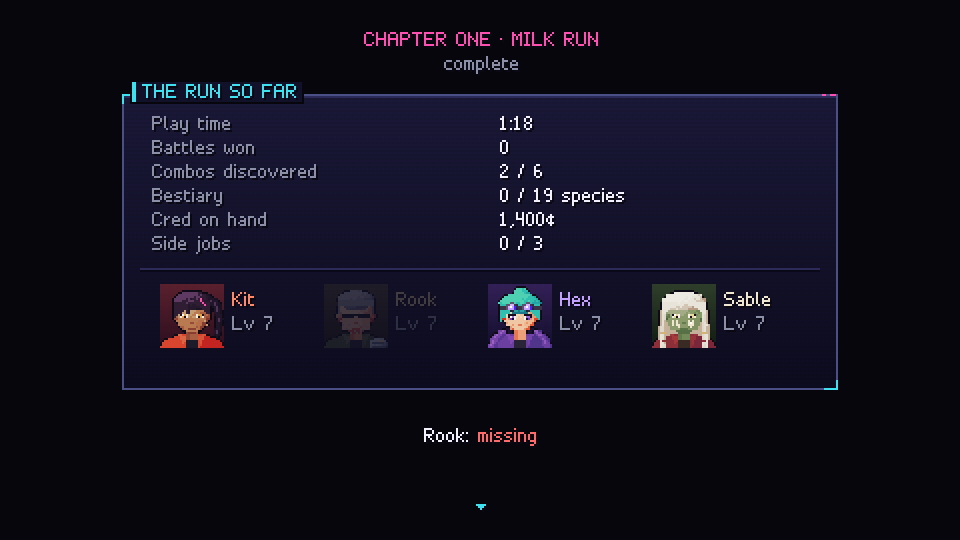
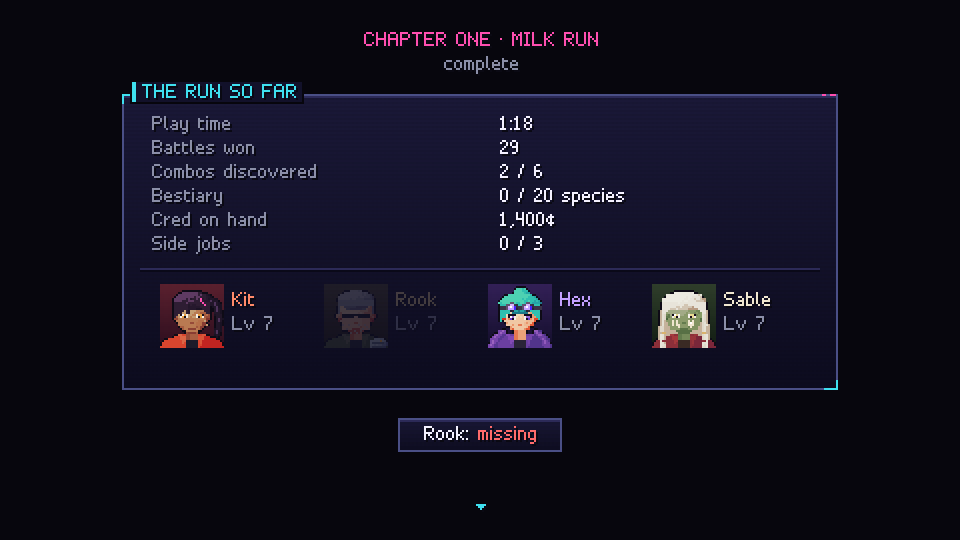
Round 3 (part 4): feel and wayfinding: panel typing gate, objective HUD, Annex signs, field light
Feel / UI
- Comic panels type speech at the player's Text Speed, and a press first finishes the line
  being typed (same contract as dialogue); dialogue boxes no longer eat a press made during
  their open animation. The battle top line wraps long text (memoized, no per-frame work).

Level design
- The current objective is always on screen, top-left (dimmer while walking, hidden in
  cutscenes and interiors), flashing when it changes.
- Annex 7 wayfinding signs (labs, armory, cryo wing, containment); lore terminals are all
  cyan, lattice relays red.

Field art
- Sinkline ambient raised and emergency strip lights along the corridor and catwalk; flood
  debris (wreck, barrels, crates) in the junction.
- Barrens landmarks: scav camp, wrecks, tyres, a sign to the arcology.
- The plaza's string lights are tied off to lantern poles instead of floating.

Changed region(s): [[0.4062, 0.7704, 0.5938, 0.8593], [0.5, 0.2667, 0.5625, 0.2963], [0.5625, 0.3556, 0.5938, 0.3852]]

diff --git a/src/scenes/panels.ts b/src/scenes/panels.ts
@@ -3,6 +3,7 @@ import { buildChar } from '../art/chars';
 import { getPortrait } from '../art/portraits';
 import { sfx } from '../audio/sfx';
 import { autoClose } from '../game/debug';
+import { charsPerFrame } from '../game/settings';
 import { LOOKS } from '../data/looks';
 import { SPEAKERS } from '../data/speakers';
 import { silhouette, surface, type Ctx } from '../engine/canvas';
@@ -76,6 +77,8 @@ export class PanelScene extends Scene<void> {
   private shown = 0;
   private t = 0;
   private panelT: number[] = [];
+  /** Characters of each panel's speech revealed so far. */
+  private typed: number[] = [];
   private cache = new Map<string, HTMLCanvasElement>();
 
   constructor(id: string) {
@@ -92,6 +95,7 @@ export class PanelScene extends Scene<void> {
     if (!p) return;
     if (this.shown < p.length) {
       this.panelT[this.shown] = 0;
+      this.typed[this.shown] = 0;
       this.shown++;
       sfx(p[this.shown - 1]!.shake ? 'explosion' : 'page');
       if (p[this.shown - 1]!.shake) this.game.shake(20, 3);
@@ -111,10 +115,21 @@ export class PanelScene extends Scene<void> {
       this.close();
       return;
     }
+    // Speech bubbles type out at the player's Text Speed, once the panel has slid in.
+    for (let i = 0; i < this.shown; i++) {
+      const sp = p[i]?.speech;
+      if (sp && (this.panelT[i] ?? 0) > 6) this.typed[i] = Math.min(sp.text.length, (this.typed[i] ?? 0) + charsPerFrame());
+    }
     const lastT = this.panelT[this.shown - 1] ?? 999;
     if (inp.pressed('cancel')) {
       // Skip the whole sequence.
       this.close();
+      return;
+    }
+    // Same contract as dialogue boxes: a press first finishes the line being typed.
+    const cur = p[this.shown - 1]?.speech;
+    if (inp.pressed('confirm') && cur && (this.typed[this.shown - 1] ?? 0) < cur.text.length) {
+      this.typed[this.shown - 1] = cur.text.length;
       return;
     }
     if (inp.pressed('confirm') && lastT > 12) {
@@ -123,6 +138,7 @@ export class PanelScene extends Scene<void> {
         this.page++;
         this.shown = 0;
         this.panelT = [];
+        this.typed = [];
         if (this.page >= this.pages.length) this.close();
         else this.revealNext();
       }
@@ -137,7 +153,7 @@ export class PanelScene extends Scene<void> {
     for (let y = 0; y < H; y += 6) for (let x = (y / 6) % 2 ? 3 : 0; x < W; x += 6) ctx.fillRect(x, y, 1, 1);
     const p = this.pages[this.page];
     if (!p) return;
-    for (let i = 0; i < this.shown; i++) this.drawPanel(ctx, fitPanel(p[i]!), this.panelT[i] ?? 0);
+    for (let i = 0; i < this.shown; i++) this.drawPanel(ctx, fitPanel(p[i]!), this.panelT[i] ?? 0, this.typed[i] ?? 0);
     // Footer strip below the panels: skip hint left, page-advance marker right.
     const lastT = this.panelT[this.shown - 1] ?? 0;
     if (lastT > 20 && Math.floor(this.t / 20) % 2 === 0) drawText(ctx, '▼', W - 14, FOOT_Y, { color: '#ffffff' });
@@ -145,7 +161,7 @@ export class PanelScene extends Scene<void> {
     drawText(ctx, 'skip', 9 + measure('X') + 4, FOOT_Y, { color: '#8a87a8' });
   }
 
-  private drawPanel(ctx: Ctx, pn: Panel, t: number): void {
+  private drawPanel(ctx: Ctx, pn: Panel, t: number, typed: number): void {
     const k = Math.min(1, t / 14);
     const e = 1 - (1 - k) ** 3;
     let ox = 0, oy = 0;
@@ -190,7 +206,7 @@ export class PanelScene extends Scene<void> {
     ctx.globalAlpha = 1;
     if (t < 6) return;
     if (pn.caption) this.caption(ctx, pn, x, y);
-    if (pn.speech) this.speech(ctx, pn, x, y, t);
+    if (pn.speech) this.speech(ctx, pn, x, y, typed);
   }
 
   private caption(ctx: Ctx, pn: Panel, x: number, y: number): void {
@@ -209,7 +225,7 @@ export class PanelScene extends Scene<void> {
     });
   }
 
-  private speech(ctx: Ctx, pn: Panel, x: number, y: number, t: number): void {
+  private speech(ctx: Ctx, pn: Panel, x: number, y: number, typed: number): void {
     const sp = pn.speech!;
     const name = SPEAKERS[sp.who]?.name ?? sp.who;
     const maxW = Math.min(pn.w - (pn.portrait ? 96 : 24), 220);
@@ -219,7 +235,7 @@ export class PanelScene extends Scene<void> {
     const leftSide = pn.portrait?.flip || pn.portrait?.dx !== undefined;
     const bx = leftSide ? x + 8 : x + pn.w - w - 8;
     const by = y + 8;
-    const reveal = Math.min(sp.text.length, Math.floor((t - 6) * 1.6));
+    const reveal = Math.floor(typed);
     ctx.fillStyle = '#000';
     ctx.fillRect(bx - 1, by - 1, w + 2, h + 2);
     ctx.fillStyle = '#ffffff';

diff --git a/src/scenes/battle.ts b/src/scenes/battle.ts
@@ -15,7 +15,7 @@ import { ITEMS } from '../data/items';
 import { LOOKS } from '../data/looks';
 import { MEMBERS } from '../data/party';
 import { silhouette, surface, type Ctx, type Surface } from '../engine/canvas';
-import { drawText, measure } from '../engine/font';
+import { drawText, measure, wrap } from '../engine/font';
 import { Scene, W, H } from '../engine/game';
 import { Rng, rng as globalRng } from '../engine/rng';
 import { equipRegen, grantXp, knownAbilities, type LevelUp } from '../game/party';
@@ -129,6 +129,10 @@ export class BattleScene extends Scene<'win' | 'lose' | 'run'> {
   private waitingConfirm: (() => void) | null = null;
   private playtestT = 0;
   private readonly drawOrder: Combatant[] = [];
+  /** Wrapped top-line text, rebuilt only when the text changes. */
+  private topKey = '';
+  private topLines: { l: string; c: string }[] = [];
+  private topW = 0;
   /** Frames of freeze-frame left (heavy hits). */
   private hitstop = 0;
   private partyArt = new Map<number, Battler>();
@@ -1376,10 +1380,21 @@ export class BattleScene extends Scene<'win' | 'lose' | 'run'> {
 
   /** One or two centred lines in the top slot, where action banners play during a round. */
   private topLine(ctx: Ctx, text: string, color: string = UI.dim, second?: { text: string; color: string }): void {
-    const tw = Math.min(W - 20, Math.max(measure(text), second ? measure(second.text) : 0) + 24);
-    drawWindow(ctx, (W - tw) / 2, 6, tw, second ? 28 : 17, { plain: true, accent: second ? second.color : UI.cyan });
-    drawText(ctx, text, W / 2, 10, { align: 'center', color });
-    if (second) drawText(ctx, second.text, W / 2, 21, { align: 'center', color: second.color });
+    // Text wider than the screen wraps onto a second line instead of running off the window.
+    const key = `${text}|${second?.text ?? ''}|${color}`;
+    if (key !== this.topKey) {
+      const maxW = W - 44;
+      const lines = wrap(text, maxW).map((l) => ({ l, c: color }));
+      const extra = second ? wrap(second.text, maxW).map((l) => ({ l, c: second.color })) : [];
+      this.topKey = key;
+      this.topLines = [...lines, ...extra];
+      this.topW = Math.min(W - 20, Math.max(...this.topLines.map((a) => measure(a.l))) + 24);
+    }
+    const all = this.topLines, tw = this.topW;
+    drawWindow(ctx, (W - tw) / 2, 6, tw, 6 + all.length * 11, { plain: true, accent: second ? second.color : UI.cyan });
+    all.forEach((a, i) => {
+      drawText(ctx, a.l, W / 2, 10 + i * 11, { align: 'center', color: a.c });
+    });
   }
 
   private renderRoundMenu(ctx: Ctx): void {

diff --git a/src/scenes/field.ts b/src/scenes/field.ts
@@ -3,7 +3,7 @@ import type { Dir } from '../art/chars';
 import { sfx } from '../audio/sfx';
 import { music } from '../audio/music';
 import type { Ctx } from '../engine/canvas';
-import { drawText, measure } from '../engine/font';
+import { drawText, measure, wrap } from '../engine/font';
 import { Scene, W, H } from '../engine/game';
 import { Rng } from '../engine/rng';
 import { Actor, DIRS, dirTo, opposite } from '../field/actor';
@@ -76,6 +76,10 @@ export class FieldScene extends Scene<void> {
   stepsSinceBattle = 0;
   private pendingWarp = false;
   private objectiveText = '';
+  private objKey = '';
+  private objLines: string[] = [];
+  private objW = 0;
+  private objFlash = 0;
 
   constructor(mapId: string, x: number, y: number, dir: Dir = 'down') {
     super();
@@ -576,7 +580,32 @@ export class FieldScene extends Scene<void> {
     this.weather.render(ctx);
     for (const a of actors) if (a.emote) drawEmote(ctx, a, cx, cy);
     this.renderBanner(ctx);
+    this.renderObjective(ctx);
     fieldHooks.renderOverlay?.(this, ctx);
+  }
+
+  /**
+   * The current objective, always on screen in the top-left corner (dimmer while walking,
+   * hidden during cutscenes and dialogue); it flashes amber for a moment when it changes.
+   */
+  private renderObjective(ctx: Ctx): void {
+    const text = this.objective;
+    if (!text || this.busy || this.def.kind === 'interior') return;
+    if (text !== this.objKey) {
+      this.objFlash = this.objKey ? 150 : 0;
+      this.objKey = text;
+      this.objLines = wrap(text, 196);
+      this.objW = Math.max(...this.objLines.map(measure)) + 16;
+    }
+    if (this.objFlash > 0) this.objFlash--;
+    const flash = this.objFlash > 0 && Math.floor(this.objFlash / 10) % 2 === 0;
+    ctx.globalAlpha = this.leader.moving ? 0.55 : 0.9;
+    ctx.fillStyle = 'rgba(10,9,19,0.78)';
+    ctx.fillRect(4, 4, this.objW, 4 + this.objLines.length * 10);
+    ctx.fillStyle = flash ? '#ffcc3d' : '#6a5a2a';
+    ctx.fillRect(4, 4, 2, 4 + this.objLines.length * 10);
+    for (let i = 0; i < this.objLines.length; i++) drawText(ctx, (i === 0 ? '{y}▶{/} ' : '   ') + this.objLines[i], 9, 6 + i * 10, { color: flash ? '#ffe7a0' : '#d8d6ec', shadow: false });
+    ctx.globalAlpha = 1;
   }
 
   private drawSprite(ctx: Ctx, s: SortedSprite, cx: number, cy: number, f: number): void {

diff --git a/src/data/maps/sinkline.ts b/src/data/maps/sinkline.ts
@@ -40,7 +40,7 @@ export const sinkline1: MapDef = {
   kind: 'dungeon',
   terrain: g.rows(),
   legend: { X: 'd_wall', '.': 'd_floor', t: 'd_track', w: 'd_shallow', '~': 'd_water', '=': 'd_catwalk', '+': 'grate' },
-  ambient: '#3a4668',
+  ambient: '#4a5680',
   weather: 'drip',
   music: 'dungeon',
   battleBg: 'sewer',
@@ -85,6 +85,13 @@ export const sinkline1: MapDef = {
     { kind: 'lampfloor', x: 41, y: 20, color: '#ff8a6a' },
     { kind: 'sign_post', x: 37, y: 12, text: 'DANGER · SUMP' },
     { kind: 'wreck', x: 43, y: 23, w: 2 },
+    // Flood debris: what the water brought down with it in '61.
+    { kind: 'wreck', x: 31, y: 27, w: 2 },
+    { kind: 'barrel', x: 31, y: 9, color: '#3a5a4a', pass: true },
+    { kind: 'barrel', x: 44, y: 14, color: '#5a3a2a', pass: true },
+    { kind: 'barrel', x: 36, y: 24, color: '#3a5a4a', pass: true },
+    { kind: 'crates', x: 43, y: 9, pass: true },
+    { kind: 'crates', x: 32, y: 21, pass: true },
     { kind: 'body', x: 40, y: 21, color: '#3a3848' },
     { kind: 'body', x: 13, y: 18, color: '#2c3b5e' },
     { kind: 'body', x: 12, y: 19, color: '#4a2a2a' },
@@ -170,5 +177,12 @@ export const sinkline1: MapDef = {
     { x: 41, y: 20, r: 40, color: '#ff6a5a', i: 0.45, flicker: true },
     { x: 38, y: 5, r: 60, color: '#ffd07a', i: 0.4, flicker: true },
     { x: 44, y: 30, r: 40, color: '#ffcc3d', i: 0.5 },
+    // Emergency strip lights along the corridor and catwalk, so the layout reads in the dark.
+    { x: 9, y: 16, r: 45, color: '#ffd07a', i: 0.4, flicker: true },
+    { x: 9, y: 24, r: 45, color: '#ffd07a', i: 0.4 },
+    { x: 14, y: 21, r: 40, color: '#ffd07a', i: 0.35 },
+    { x: 34, y: 5, r: 50, color: '#b8d8ff', i: 0.4 },
+    { x: 42, y: 5, r: 50, color: '#b8d8ff', i: 0.4, flicker: true },
+    { x: 33, y: 27, r: 50, color: '#4affb0', i: 0.3 },
   ],
 };

diff --git a/src/data/maps/annex.ts b/src/data/maps/annex.ts
@@ -57,7 +57,7 @@ export const annex: MapDef = {
     { kind: 'desk', x: 22, y: 4, w: 2 },
     { kind: 'terminal', x: 27, y: 3, color: '#3fe0f0' },
     { kind: 'terminal', x: 16, y: 12, color: '#3fe0f0' },
-    { kind: 'terminal', x: 29, y: 14, color: '#ff4fb0' },
+    { kind: 'terminal', x: 29, y: 14, color: '#3fe0f0' },
     { kind: 'tank', x: 18, y: 8 },
     { kind: 'tank', x: 20, y: 8 },
     { kind: 'tank', x: 24, y: 8, color: '#b07cff' },
@@ -75,7 +75,12 @@ export const annex: MapDef = {
     { kind: 'tank', x: 21, y: 25, color: '#ff3a4a' },
     { kind: 'tank', x: 36, y: 25, color: '#ff3a4a' },
     { kind: 'barrier', x: 37, y: 31, w: 3, pass: true },
-    // Lattice relays: one in the service room, one in the hall, one in the armory.
+    // Wayfinding: the lab's own wall signs.
+    { kind: 'sign_post', x: 9, y: 7, text: 'LABS ↓' },
+    { kind: 'sign_post', x: 16, y: 18, text: 'ARMORY ↓' },
+    { kind: 'sign_post', x: 29, y: 9, text: 'CRYO WING ↑' },
+    { kind: 'sign_post', x: 25, y: 18, text: 'CONTAINMENT ↓' },
+    // Lattice relays (red, unlike the cyan lore terminals): service room, hall, armory.
     { kind: 'terminal', x: 10, y: 4, color: '#ff6a5a' },
     { kind: 'terminal', x: 15, y: 8, color: '#ff6a5a' },
     { kind: 'terminal', x: 15, y: 21, color: '#ff6a5a' },

diff --git a/src/data/maps/lantern_row.ts b/src/data/maps/lantern_row.ts
@@ -73,6 +73,12 @@ export const lanternRow: MapDef = {
     { kind: 'building', x: 42, y: 38, w: 14, h: 2, facade: 0, style: 'tile' },
   ],
   props: [
+    { kind: 'pole', x: 15, y: 16, pass: true },
+    { kind: 'pole', x: 40, y: 16, pass: true },
+    { kind: 'pole', x: 15, y: 20, pass: true },
+    { kind: 'pole', x: 40, y: 20, pass: true },
+    { kind: 'pole', x: 15, y: 25, pass: true },
+    { kind: 'pole', x: 40, y: 25, pass: true },
     // Street lamps
     { kind: 'lamp', x: 3, y: 7, dir: 'right' },
     { kind: 'lamp', x: 15, y: 7, dir: 'right' },
@@ -131,6 +137,7 @@ export const lanternRow: MapDef = {
     { kind: 'fence', x: 0, y: 33, w: 3, pass: false },
   ],
   strings: [
+    // (Plaza strings are tied off to poles at both ends; see the pole props.)
     { a: [15, 16], b: [40, 16], sag: 14, lanterns: ['#ff5a3a', '#ffcc3d', '#ff4fb0'] },
     { a: [15, 20], b: [40, 20], sag: 12, lanterns: ['#ffcc3d', '#ff5a3a'] },
     { a: [15, 25], b: [40, 25], sag: 14, lanterns: ['#ff4fb0', '#ffcc3d', '#3fe0f0'] },

diff --git a/src/data/maps/world.ts b/src/data/maps/world.ts
@@ -100,6 +100,16 @@ export const world: MapDef = {
     { kind: 'sign_post', x: 21, y: 25, text: 'SINKLINE ↓' },
     { kind: 'lamp', x: 21, y: 37, dir: 'right' },
     { kind: 'car', x: 29, y: 21, w: 2, color: '#5a5f7a' },
+    // Barrens landmarks: a scav camp, dead cars, the road north to the arcology.
+    { kind: 'sign_post', x: 31, y: 10, text: 'ARCOLOGY ↑' },
+    { kind: 'wreck', x: 33, y: 14, w: 2 },
+    { kind: 'wreck', x: 42, y: 26, w: 2 },
+    { kind: 'tent', x: 54, y: 16, w: 2, color: '#5a4a3a' },
+    { kind: 'firebarrel', x: 56, y: 18 },
+    { kind: 'crates', x: 57, y: 16 },
+    { kind: 'tires', x: 47, y: 25 },
+    { kind: 'tires', x: 48, y: 25 },
+    { kind: 'barrier', x: 29, y: 15, w: 2 },
     // POI: the wayside shrine deep in Hollowmere Park.
     { kind: 'shrine', x: 22, y: 13, w: 2 },
     // POI: a K-M courier AV that came down in the south barrens.

diff --git a/src/scenes/dialog.ts b/src/scenes/dialog.ts
@@ -37,6 +37,7 @@ export class DialogScene extends Scene<number> {
   private choiceIdx = 0;
   private frame = 0;
   private opened = 0;
+  private bufferedPress = false;
   private autoT = 0;
   private blipAcc = 0;
 
@@ -68,11 +69,17 @@ export class DialogScene extends Scene<number> {
       this.close(0);
       return;
     }
+    const inp = this.game.input;
     if (this.opened < 6) {
+      // A press during the open animation isn't lost: it fast-completes the first line.
+      if (inp.pressed('confirm')) this.bufferedPress = true;
       this.opened++;
       return;
     }
-    const inp = this.game.input;
+    if (this.bufferedPress) {
+      this.bufferedPress = false;
+      this.shown = this.pageLen();
+    }
     const fast = (inp.down('cancel') || debug.playtest) && !this.o.choices;
     if (this.typing) {
       if (this.waitFrames > 0) {

diff --git a/src/field/types.ts b/src/field/types.ts
@@ -49,7 +49,7 @@ export interface BuildingDef {
 
 export type PropKind =
   | 'lamp' | 'vending' | 'barrel' | 'firebarrel' | 'crates' | 'dumpster' | 'trash' | 'car' | 'wreck' | 'hydrant'
-  | 'bench' | 'stall' | 'pillar' | 'tree' | 'wildtree' | 'shrine' | 'planter' | 'terminal' | 'pipe_v' | 'steam' | 'barrier' | 'cone'
+  | 'bench' | 'stall' | 'pillar' | 'tree' | 'wildtree' | 'shrine' | 'pole' | 'planter' | 'terminal' | 'pipe_v' | 'steam' | 'barrier' | 'cone'
   | 'holo' | 'poster' | 'counter' | 'shelf' | 'bed' | 'table' | 'stool' | 'couch' | 'plant' | 'screen'
   | 'capsule' | 'bar' | 'rack' | 'desk' | 'pod' | 'server' | 'tank' | 'fence' | 'sandbags' | 'tent' | 'pylon'
   | 'catwalk_rail' | 'train' | 'valve' | 'cryopod' | 'door_lab' | 'jukebox' | 'arcade' | 'sign_post' | 'bollard'

diff --git a/src/game/stages.ts b/src/game/stages.ts
@@ -65,7 +65,7 @@ export const STAGES: Record<string, () => Stage> = {
       hex: { level: 7, equip: { weapon: 'heavy_pistol', body: 'lined_coat' } },
       sable: { level: 7 },
     });
-    Object.assign(state.flags, { ...FLAGS_SINKLINE, floodgate: true, lurker: true, annex_key: true, sable_joined: true, objective: 'Escape Annex 7. Head for the freight lift.' });
+    Object.assign(state.flags, { ...FLAGS_SINKLINE, floodgate: true, lurker: true, annex_key: true, sable_joined: true, objective: 'Gear up from the Annex armory, then head for the freight lift in the south wing.' });
     state.cred = 1400;
     state.battles = 29;
     state.inventory = { medkit: 6, trauma_patch: 4, neurotab: 3, adrenal_stim: 2, omni_patch: 1, frag: 2 };

diff --git a/src/field/props.ts b/src/field/props.ts
@@ -768,6 +768,21 @@ export const PROPS: Partial<Record<PropKind, PropPainter>> = {
     b.lights.push({ x: x + W / 2, y: y + H - 6, r: 38, color: '#ffcf7a', i: 0.6, flicker: true });
   },
 
+  /** Slim lantern pole that string lights are tied off to (walk-through). */
+  pole(b, p) {
+    blockFoot(b, p);
+    tall(b, p, 6, 20, (c) => {
+      c.fillStyle = '#0f0e17';
+      c.fillRect(1, 0, 4, 20);
+      c.fillStyle = '#4a4e5c';
+      c.fillRect(2, 1, 2, 19);
+      c.fillStyle = '#6a7080';
+      c.fillRect(2, 1, 1, 19);
+      c.fillStyle = '#8a8e9c';
+      c.fillRect(1, 0, 4, 2);
+    });
+  },
+
   /** Wall intake valve: pipe riser, red hand-wheel, and a lit pressure gauge. */
   valve(b, p) {
     blockFoot(b, p);
